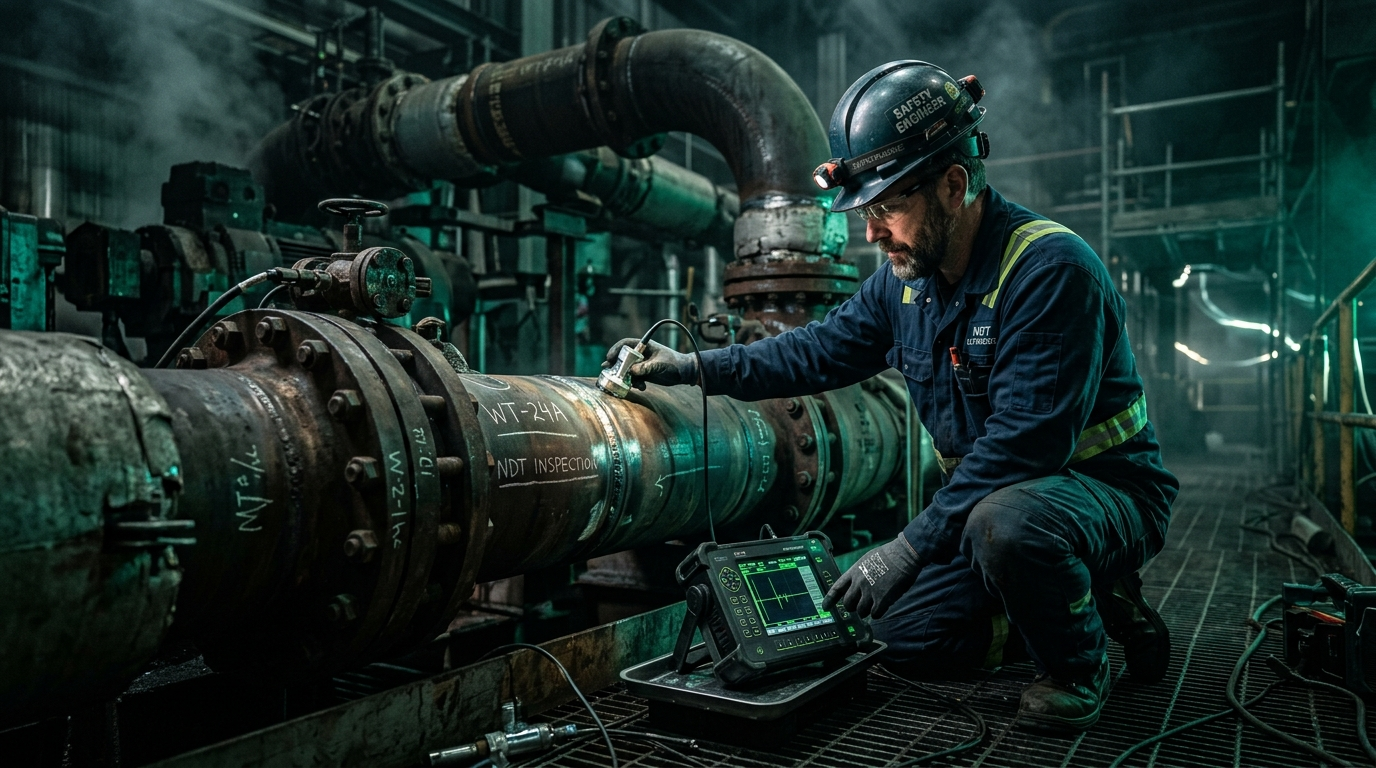
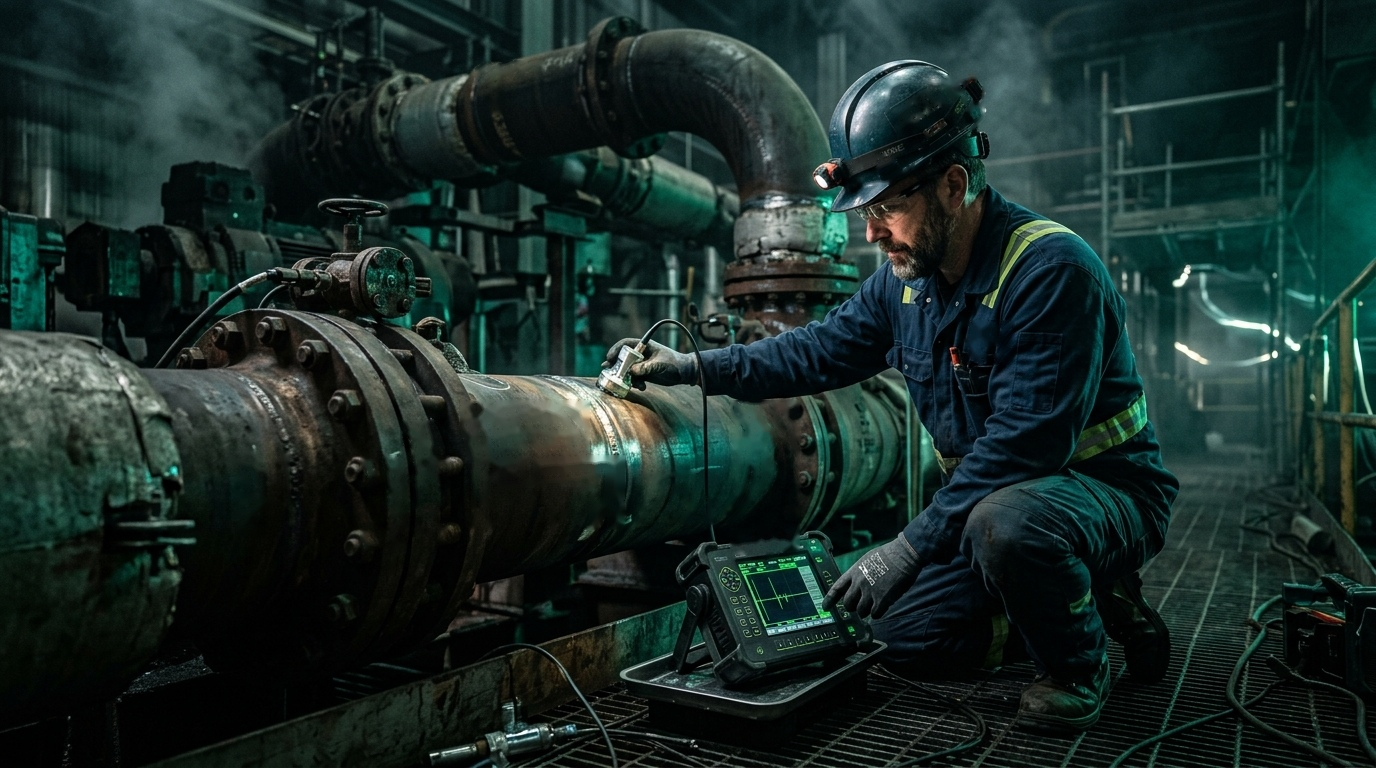
Update hero sections with photos, clean text from diagnostics hero image, update header CTA button

diff --git a/pricing.html b/pricing.html
@@ -18,10 +18,15 @@
   <div id="site-top"></div>
   <main class="flex-1 pt-28 sm:pt-32">
     <section class="paper-grid px-4 sm:px-10 lg:px-14 py-16 border-b border-line">
-      <div class="max-w-[1440px] mx-auto max-w-3xl reveal">
-        <p class="font-mono-tech text-[10px] uppercase tracking-[0.28em] text-rose-deep mb-4">Ценообразование</p>
-        <h1 class="font-display text-4xl sm:text-6xl mb-5">Стоимость услуг</h1>
-        <p class="text-muted text-lg leading-relaxed">Итоговая цена считается по объекту, а не по кнопке калькулятора. Ниже — логика расчёта и ориентиры по типовым работам. Это не оферта.</p>
+      <div class="max-w-[1440px] mx-auto grid grid-cols-1 lg:grid-cols-2 gap-10 items-center">
+        <div class="reveal">
+          <p class="font-mono-tech text-[10px] uppercase tracking-[0.28em] text-rose-deep mb-4">Ценообразование</p>
+          <h1 class="font-display text-4xl sm:text-6xl mb-5">Стоимость услуг</h1>
+          <p class="text-muted text-lg leading-relaxed">Итоговая цена считается по объекту, а не по кнопке калькулятора. Ниже — логика расчёта и ориентиры по типовым работам. Это не оферта.</p>
+        </div>
+        <div class="reveal-right">
+          <img src="./assets/images/hero-industrial.jpg" alt="Промышленный объект" class="page-hero-img"/>
+        </div>
       </div>
     </section>
     <section class="px-4 sm:px-10 lg:px-14 py-16 border-b border-line">
@@ -59,6 +64,6 @@
     </section>
   </main>
   <div id="site-bottom"></div>
-  <script src="./js/chrome.js?v=6"></script>
+  <script src="./js/chrome.js?v=7"></script>
 </body>
 </html>

diff --git a/powers.html b/powers.html
@@ -18,10 +18,15 @@
   <div id="site-top"></div>
   <main class="flex-1 pt-28 sm:pt-32">
     <section class="paper-grid px-4 sm:px-10 lg:px-14 py-16 border-b border-line">
-      <div class="max-w-[1440px] mx-auto reveal">
-        <p class="font-mono-tech text-[10px] uppercase tracking-[0.28em] text-rose-deep mb-4">Допуски</p>
-        <h1 class="font-display text-4xl sm:text-6xl mb-4">Полномочия</h1>
-        <p class="text-muted max-w-2xl">Лицензия на экспертизу промышленной безопасности и аттестация лаборатории неразрушающего контроля. Документы открываются с сайта.</p>
+      <div class="max-w-[1440px] mx-auto grid grid-cols-1 lg:grid-cols-2 gap-10 items-center">
+        <div class="reveal">
+          <p class="font-mono-tech text-[10px] uppercase tracking-[0.28em] text-rose-deep mb-4">Допуски</p>
+          <h1 class="font-display text-4xl sm:text-6xl mb-4">Полномочия</h1>
+          <p class="text-muted max-w-2xl">Лицензия на экспертизу промышленной безопасности и аттестация лаборатории неразрушающего контроля. Документы открываются с сайта.</p>
+        </div>
+        <div class="reveal-right">
+          <img src="./assets/images/hero-lab.jpg" alt="Лабораторный контроль" class="page-hero-img"/>
+        </div>
       </div>
     </section>
     <section class="px-4 sm:px-10 lg:px-14 py-16 border-b border-line">
@@ -69,6 +74,6 @@
     </section>
   </main>
   <div id="site-bottom"></div>
-  <script src="./js/chrome.js?v=6"></script>
+  <script src="./js/chrome.js?v=7"></script>
 </body>
 </html>

diff --git a/contacts.html b/contacts.html
@@ -18,10 +18,15 @@
   <div id="site-top"></div>
   <main class="flex-1 pt-28 sm:pt-32">
     <section class="paper-grid px-4 sm:px-10 lg:px-14 py-16 border-b border-line">
-      <div class="max-w-[1440px] mx-auto reveal">
-        <p class="font-mono-tech text-[10px] uppercase tracking-[0.28em] text-rose-deep mb-4">Связь</p>
-        <h1 class="font-display text-4xl sm:text-6xl mb-4">Контакты</h1>
-        <p class="text-muted max-w-xl">Офис и лаборатория в Ижевске. Пн–Пт 7:00–16:00 (МСК). Пишите в MAX или на почту.</p>
+      <div class="max-w-[1440px] mx-auto grid grid-cols-1 lg:grid-cols-2 gap-10 items-center">
+        <div class="reveal">
+          <p class="font-mono-tech text-[10px] uppercase tracking-[0.28em] text-rose-deep mb-4">Связь</p>
+          <h1 class="font-display text-4xl sm:text-6xl mb-4">Контакты</h1>
+          <p class="text-muted max-w-xl">Офис и лаборатория в Ижевске. Пн–Пт 7:00–16:00 (МСК). Пишите в MAX или на почту.</p>
+        </div>
+        <div class="reveal-right">
+          <img src="./assets/images/hero-buildings.jpg" alt="Промышленный объект" class="page-hero-img"/>
+        </div>
       </div>
     </section>
     <section class="px-4 sm:px-10 lg:px-14 py-16">
@@ -63,6 +68,6 @@
     </section>
   </main>
   <div id="site-bottom"></div>
-  <script src="./js/chrome.js?v=6"></script>
+  <script src="./js/chrome.js?v=7"></script>
 </body>
 </html>

diff --git a/js/chrome.js b/js/chrome.js
@@ -100,10 +100,9 @@
               <a class="font-mono-tech text-sm tracking-wide font-bold text-white hover:text-[#9ddec0]" href="tel:${PHONE_CITY_TEL}">${PHONE_CITY}</a>
               <a class="font-mono-tech text-[11px] text-[#9db5a8] hover:text-white" href="tel:${PHONE_MOBILE_TEL}">${PHONE_MOBILE}</a>
             </div>
-            <!-- pricing link hidden per client request -->
-            <a class="hidden items-center gap-2 px-4 py-2.5 rounded-full bg-[#f4f1ea] hover:bg-white text-[#0e1a15] text-[13px] font-semibold transition-all" href="./pricing.html" style="display:none">
-              Стоимость услуг
-              <span class="material-symbols-outlined text-xs">north_east</span>
+            <a class="hidden sm:inline-flex items-center gap-2 px-4 py-2.5 rounded-full bg-[#f4f1ea] hover:bg-white text-[#0e1a15] text-[13px] font-semibold transition-all" href="./question.html">
+              Задать вопрос
+              <span class="material-symbols-outlined text-xs">arrow_forward</span>
             </a>
             <button id="mobile-menu-btn" class="xl:hidden w-10 h-10 flex flex-col items-center justify-center gap-1.5 border border-white/20 rounded-full" aria-label="Открыть меню" aria-expanded="false">
               <span class="bar-1 w-5 h-0.5 bg-white transition-transform"></span>

diff --git a/services-diagnostics.html b/services-diagnostics.html
@@ -28,7 +28,7 @@
           </div>
         </div>
         <div class="reveal-right">
-          <img src="./assets/images/hero_ndt.jpg" alt="Диагностирование промышленного оборудования" class="page-hero-img"/>
+          <img src="./assets/images/hero_ndt.jpg?v=2" alt="Диагностирование промышленного оборудования" class="page-hero-img"/>
         </div>
       </div>
     </section>
@@ -44,6 +44,6 @@
 
   </main>
   <div id="site-bottom"></div>
-  <script src="./js/chrome.js?v=6"></script>
+  <script src="./js/chrome.js?v=7"></script>
 </body>
 </html>

diff --git a/about.html b/about.html
@@ -66,6 +66,6 @@
     </section>
   </main>
   <div id="site-bottom"></div>
-  <script src="./js/chrome.js?v=6"></script>
+  <script src="./js/chrome.js?v=7"></script>
 </body>
 </html>

diff --git a/question.html b/question.html
@@ -66,6 +66,6 @@
     </section>
   </main>
   <div id="site-bottom"></div>
-  <script src="./js/chrome.js?v=6"></script>
+  <script src="./js/chrome.js?v=7"></script>
 </body>
 </html>

diff --git a/index.html b/index.html
@@ -268,6 +268,6 @@
   </main>
 
   <div id="site-bottom"></div>
-  <script src="./js/chrome.js?v=6"></script>
+  <script src="./js/chrome.js?v=7"></script>
 </body>
 </html>

diff --git a/services-buildings.html b/services-buildings.html
@@ -44,6 +44,6 @@
 
   </main>
   <div id="site-bottom"></div>
-  <script src="./js/chrome.js?v=6"></script>
+  <script src="./js/chrome.js?v=7"></script>
 </body>
 </html>

diff --git a/services-epb.html b/services-epb.html
@@ -45,6 +45,6 @@
 
   </main>
   <div id="site-bottom"></div>
-  <script src="./js/chrome.js?v=6"></script>
+  <script src="./js/chrome.js?v=7"></script>
 </body>
 </html>

diff --git a/services-lab.html b/services-lab.html
@@ -45,6 +45,6 @@
 
   </main>
   <div id="site-bottom"></div>
-  <script src="./js/chrome.js?v=6"></script>
+  <script src="./js/chrome.js?v=7"></script>
 </body>
 </html>

diff --git a/services-passports.html b/services-passports.html
@@ -44,6 +44,6 @@
 
   </main>
   <div id="site-bottom"></div>
-  <script src="./js/chrome.js?v=6"></script>
+  <script src="./js/chrome.js?v=7"></script>
 </body>
 </html>
